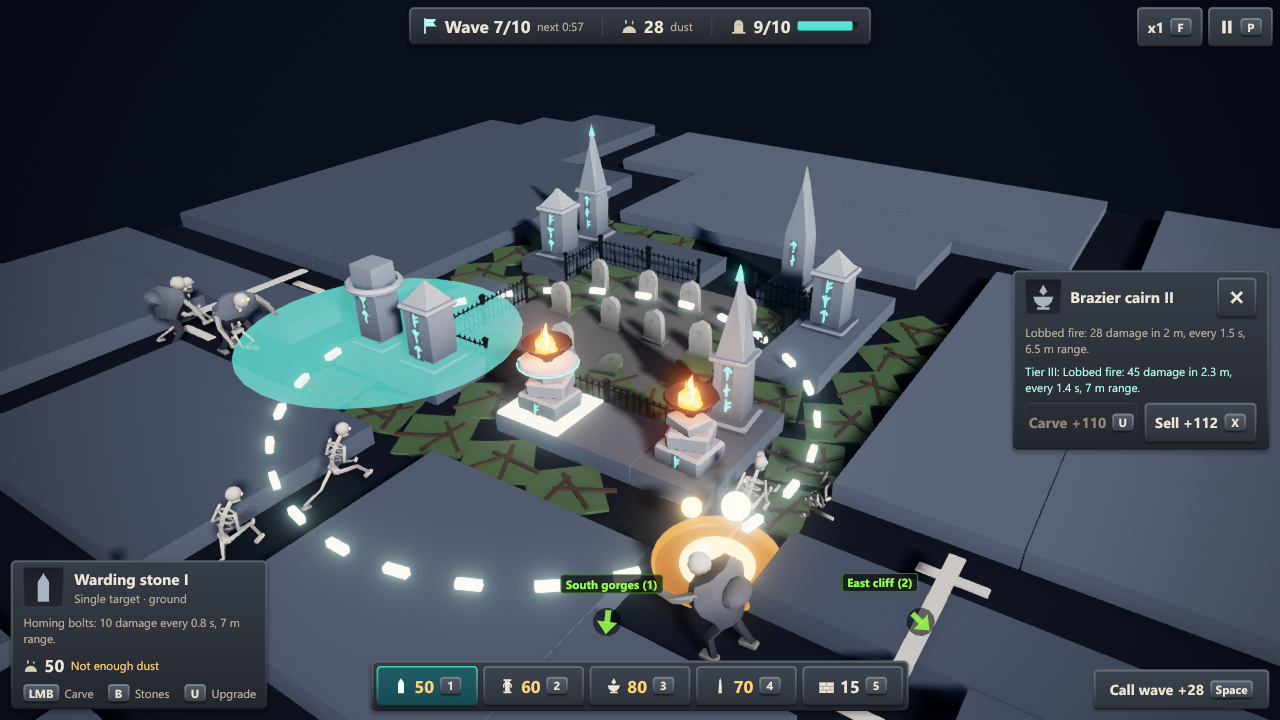
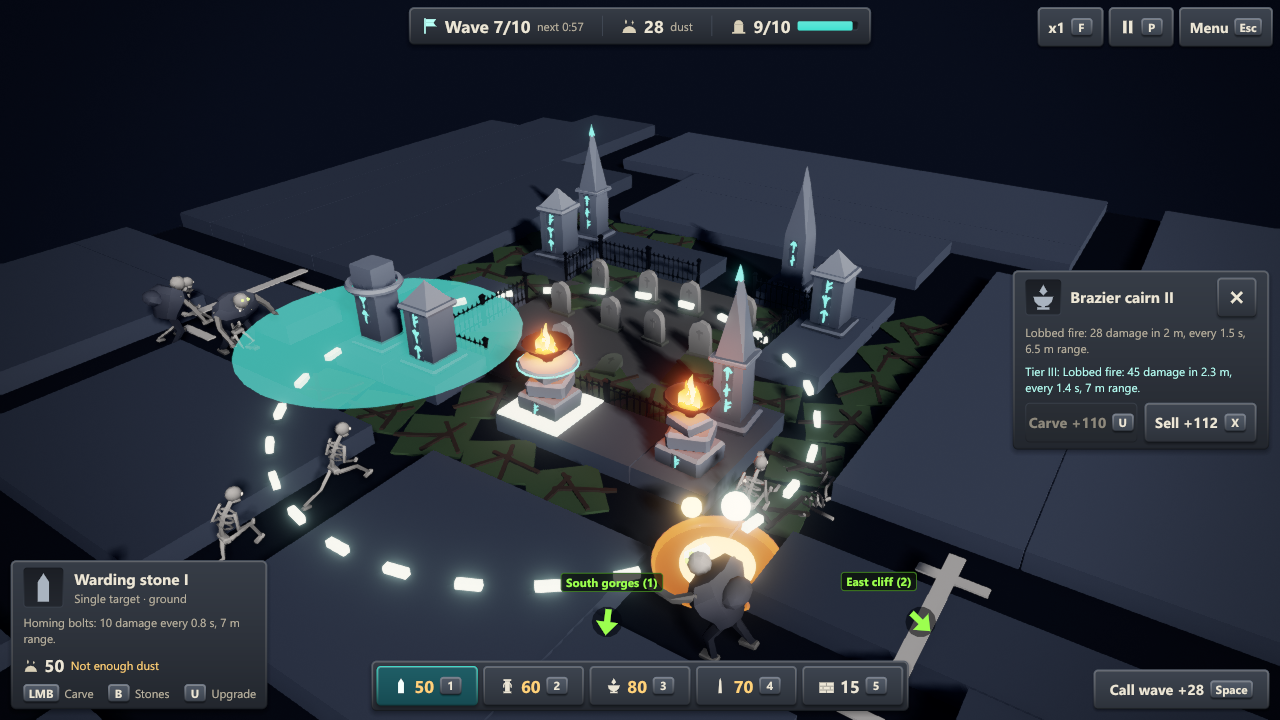
Sepulcra: a darker night (dim moon, low blue fill): fire and runes carry the scene; fidelity capture retaken on the iGPU

diff --git a/games/sepulcra-app/src/game.rs b/games/sepulcra-app/src/game.rs
@@ -830,14 +830,14 @@ pub fn night(world: &mut World) {
     let moon = Vec3::new(elev.cos() * az.sin(), elev.sin(), elev.cos() * az.cos());
     let patch = EnvPatch {
         sun_direction: Some(moon),
-        // A moon a shade less blue than the palette's swatch, and a near-neutral fill: the
-        // slab's stone stays a cool grey (STYLE.md: neutrals under ~25% saturation) instead of
-        // turning the whole night blue, so the cyan, green and fire families carry the colour.
+        // A dim moon a shade less blue than the palette's swatch, and a low blue fill: the night
+        // is dark, the stone a cool grey where the moon touches it (STYLE.md: neutrals under
+        // ~25% saturation), and the fire, the runes and the dead's eyes carry the scene.
         sun_color: Some(palette::MOONLIGHT),
-        sun_intensity: Some(1.5),
+        sun_intensity: Some(0.85),
         ambient_color: Some(palette::NIGHT_FILL),
-        ambient_intensity: Some(2.7),
-        exposure: Some(1.1),
+        ambient_intensity: Some(0.95),
+        exposure: Some(1.0),
         tonemap: Some(true),
         background: Some(palette::SKY),
         // The moon casts one fitted shadow map (cheapest on the iGPU for this top-down view).

diff --git a/games/sepulcra-app/src/looks.rs b/games/sepulcra-app/src/looks.rs
@@ -48,7 +48,7 @@ pub mod palette {
     /// The moon's light on the slab (the disc stays MOON).
     pub const MOONLIGHT: [f32; 3] = hex(0xd0d9f0);
     /// The night's fill light: MIST with half its blue taken out (shadowed cliffs stay readable, blue).
-    pub const NIGHT_FILL: [f32; 3] = hex(0x333b4a);
+    pub const NIGHT_FILL: [f32; 3] = hex(0x2f3850);
     pub const IRON: [f32; 3] = hex(0x5c6168);
     /// The chalk scar on lane-jump ledges (a pale neutral).
     pub const CHALK: [f32; 3] = hex(0xd6d2c4);
